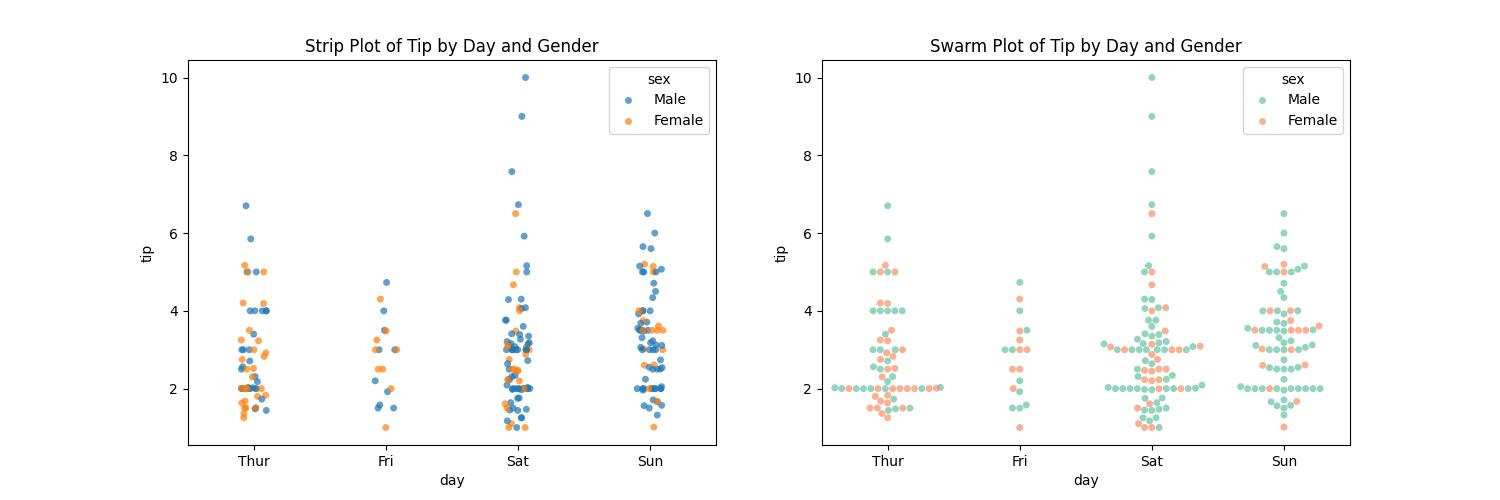
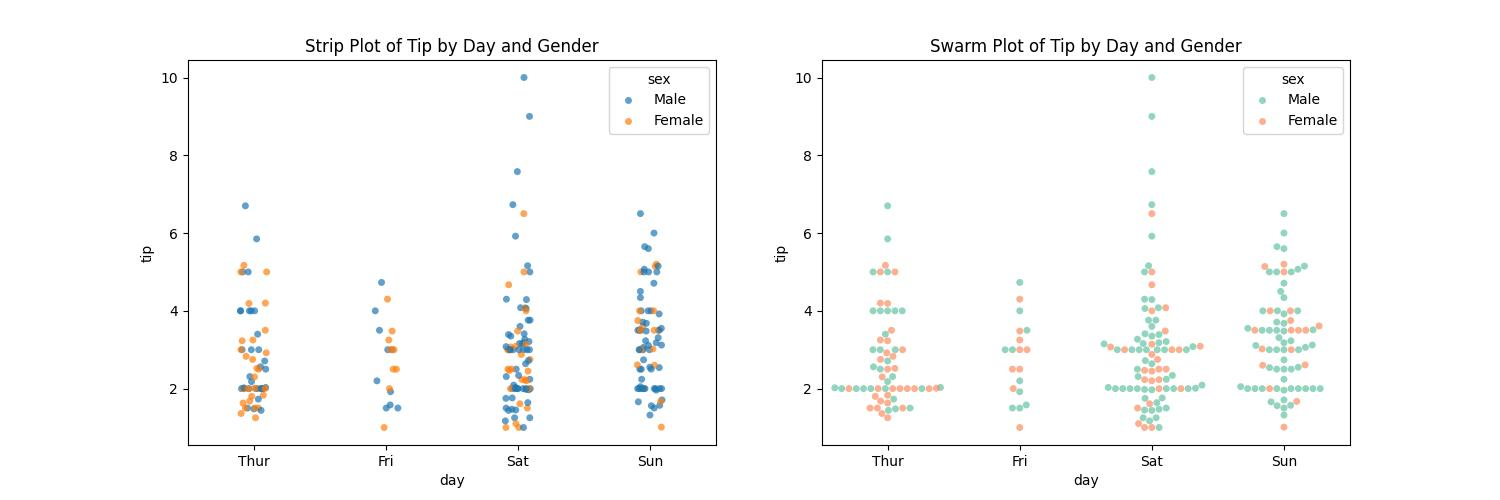
Updated Changes

diff --git a/week04/seaborn_code.py b/week04/seaborn_code.py
@@ -78,6 +78,7 @@ plt.savefig('./week04/Seaborn_Figure05.jpg')
 
 # **관계 그래프**
 # pairplot( ) 그리기
-sns.pairplot(data=tips, hue='ses',diag_kind='his', palette='hus1')
+sns.pairplot(data=tips, hue='sex',diag_kind='his', palette='hus1')
 
-plt.suptitle('Pair Plot of Tips Dataset', fontsize=16)
+plt.suptitle('Pair Plot of Tips Dataset', y=1.05)
+plt.savefig('./week04/Seaborn_Figure06.jpg')
